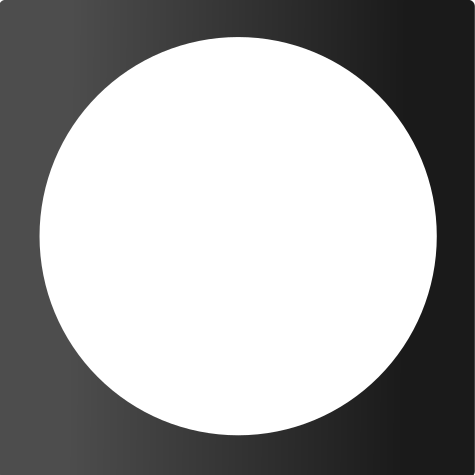
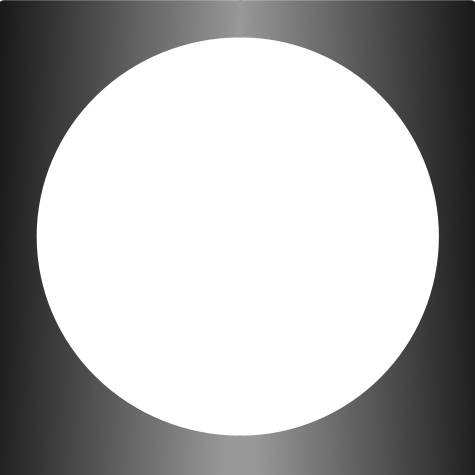
select team colors done

diff --git a/app.js b/app.js
@@ -74,4 +74,172 @@ state = {
   ],
 };
 
-console.log("hiiiiiiiiiiiiiiiiiiiiiii")
+
+const colorsChoiceNodeP1 = document.getElementById("colorsChooseP1");
+const colorsChoiceNodeP2 = document.getElementById("colorsChooseP2");
+
+const colorsPlayer1Heading = document.getElementById("player1ColorLabel");
+const colorsPlayer2Heading = document.getElementById("player2ColorLabel");
+
+function changePlayerHeadline( node, color, colorDescription) {
+  node.innerHTML = "Player " + color;
+  node.style.color = colorDescription
+}
+
+
+console.dir(colorsChoiceNodeP1);
+console.dir(colorsChoiceNodeP2);
+
+function clearStylingsP1( color ) {
+  let child1 = colorsChoiceNodeP1.firstElementChild
+  let child2 = child1.nextElementSibling
+  let child3 = child2.nextElementSibling
+  let child4 = child3.nextElementSibling
+  if ( color === "red") {
+    child1.style.outline = "";
+    child1.style.marginLeft = ".25vw";
+    child1.style.marginRight = ".25vw";
+  } else if ( color === "blue") {
+    child2.style.outline = "";
+    child2.style.marginLeft = ".25vw";
+    child2.style.marginRight = ".25vw";
+  } else if ( color === "green" ) {
+    child3.style.outline = "";
+    child3.style.marginLeft = ".25vw";
+    child3.style.marginRight = ".25vw";
+  } else if ( color === "purple" ) {
+    child4.style.outline = "";
+    child4.style.marginLeft = ".25vw";
+    child4.style.marginRight = ".25vw";
+  } else {
+
+  }
+
+}
+
+function clearStylingsP2( color ) {
+  let child1 = colorsChoiceNodeP2.firstElementChild
+  let child2 = child1.nextElementSibling
+  let child3 = child2.nextElementSibling
+  let child4 = child3.nextElementSibling
+  if ( color === "red") {
+    child1.style.outline = "";
+    child1.style.marginLeft = ".25vw";
+    child1.style.marginRight = ".25vw";
+  } else if ( color === "blue") {
+    child2.style.outline = "";
+    child2.style.marginLeft = ".25vw";
+    child2.style.marginRight = ".25vw";
+  } else if ( color === "green" ) {
+    child3.style.outline = "";
+    child3.style.marginLeft = ".25vw";
+    child3.style.marginRight = ".25vw";
+  } else if ( color === "purple" ) {
+    child4.style.outline = "";
+    child4.style.marginLeft = ".25vw";
+    child4.style.marginRight = ".25vw";
+  } else {
+
+  }
+
+}
+
+
+colorsChoiceNodeP1.addEventListener("click", function(event) {
+    console.log("event.target.className");
+  console.dir(event.target.className);
+ switch ( state.newGame === false) {
+  case event.target.className === "colorCircleBlue":
+    clearStylingsP1(state.players[0].player1);
+    changePlayerHeadline( colorsPlayer1Heading , "Blue" , "blue") 
+    state.players[0].player1 = "blue"
+    console.dir(event.target.style.outline)
+    event.target.style.outline = "3px solid black"
+    event.target.style.marginLeft = "1vw"
+    event.target.style.marginRight = "1vw"
+  break;
+  case event.target.className === "colorCirclePurple":
+    clearStylingsP1(state.players[0].player1);
+    changePlayerHeadline( colorsPlayer1Heading , "Purple" , "purple") 
+    state.players[0].player1 = "purple"
+    event.target.style.outline = "3px solid black"
+    event.target.style.marginLeft = "1vw"
+    event.target.style.marginRight = "1vw"
+  break; 
+    case event.target.className === "colorCircleGreen":
+    clearStylingsP1(state.players[0].player1);
+    changePlayerHeadline( colorsPlayer1Heading , "Green" , "green") 
+    state.players[0].player1 = "green"
+    event.target.style.outline = "3px solid black"
+    event.target.style.marginLeft = "1vw"
+    event.target.style.marginRight = "1vw"
+  break; 
+    case event.target.className === "colorCircleRed":
+    clearStylingsP1(state.players[0].player1);
+    changePlayerHeadline( colorsPlayer1Heading , "Red" , "rgb(234, 10, 10)") 
+    state.players[0].player1 = "red"
+    event.target.style.outline = "3px solid black"
+    event.target.style.marginLeft = "1vw"
+    event.target.style.marginRight = "1vw"
+  break; 
+  default:
+
+ }
+
+})
+
+colorsChoiceNodeP2.addEventListener("click", function(event) {
+    console.log("event.target.className");
+  console.dir(event.target.className);
+ switch ( state.newGame === false) {
+  case event.target.className === "colorCircleBlue":
+    clearStylingsP2(state.players[1].player2);
+    changePlayerHeadline( colorsPlayer2Heading , "Blue" , "blue") 
+    state.players[1].player2 = "blue"
+    console.dir(event.target.style.outline)
+    event.target.style.outline = "3px solid black"
+    event.target.style.marginLeft = "1vw"
+    event.target.style.marginRight = "1vw"
+  break;
+  case event.target.className === "colorCirclePurple":
+    clearStylingsP2(state.players[1].player2);
+      changePlayerHeadline( colorsPlayer2Heading , "Purple" , "purple") 
+    state.players[1].player2 = "purple"
+    event.target.style.outline = "3px solid black"
+    event.target.style.marginLeft = "1vw"
+    event.target.style.marginRight = "1vw"
+  break; 
+    case event.target.className === "colorCircleGreen":
+    clearStylingsP2(state.players[1].player2);
+    changePlayerHeadline( colorsPlayer2Heading , "Green" , "green") 
+    state.players[1].player2 = "green"
+    event.target.style.outline = "3px solid black"
+    event.target.style.marginLeft = "1vw"
+    event.target.style.marginRight = "1vw"
+  break; 
+    case event.target.className === "colorCircleRed":
+    clearStylingsP2(state.players[1].player2);
+    changePlayerHeadline( colorsPlayer2Heading , "Red" , "rgb(234, 10, 10)") 
+    state.players[1].player2 = "red"
+    event.target.style.outline = "3px solid black"
+    event.target.style.marginLeft = "1vw"
+    event.target.style.marginRight = "1vw"
+  break; 
+  default:
+
+ }
+
+})
+
+const nodeStartGame = document.getElementsByClassName("startGame");
+
+nodeStartGame.addEventListener("click", function() {
+  window.alert("click")
+  if ( state.newGame === false && state.players[0].player1 !== null && state.players[1].player2 !== null && state.players[0].player1 !== state.players[1].player2) {
+    window.alert("you started a game");
+  } else {
+
+  }
+})
+
+// clearStylingsP1()

diff --git a/style.css b/style.css
@@ -1,8 +1,3 @@
-head {
-  height: 1200px;
-  width: 100%;
-  background-color: green;
-}
 
 table {
   background-color: lightgray;
@@ -14,12 +9,12 @@ table {
 tr {
   background-color: lightgray;
   width: 100%;
-  outline: 2px solid black;
+  outline: 2px solid rgb(34, 33, 33);
 }
 
 td {
-  outline: 4px solid black;
-  background-color: red;
+  outline: 4px solid rgb(34, 33, 33);
+  background-color: whitesmoke;
   width: 14%;
   height: 10vw;
   margin: 0;
@@ -47,25 +42,90 @@ div.userControls {
   flex-direction: row;
   justify-content: space-between; */
   height: 25vw;
-  background-image: linear-gradient(to right, rgb(255, 255, 255), rgb(196, 195, 195));
-  outline: 3px solid black;
-  width: 80%;
-  margin-bottom: 2px;
+  background-image: linear-gradient(to right, rgb(196, 195, 195), rgb(255, 255, 255), rgb(196, 195, 195));
+  outline: 1vw solid rgb(41, 38, 38);
+  width: 77%;
+  padding:0;
 }
 
-div.header {
+div.banner {
   display: flex;
   flex-direction: row;
   justify-content: space-between;
+  background-image: linear-gradient(to right, rgb(41, 38, 38), rgb(95, 84, 84));
+  /* align-items: space-between; */
   height: 10vw;
+  width:80%;
+}
+
+.player1Name {
+  font-family:'Gill Sans', 'Gill Sans MT', Calibri, 'Trebuchet MS', sans-serif;
+  font-size: 4vw;
+  font-weight: bold;
+  text-align:center;
+  margin:2.5vw;
+}
+
+.player2Name {
+  font-family:'Gill Sans', 'Gill Sans MT', Calibri, 'Trebuchet MS', sans-serif;
+  font-size: 4vw;
+  font-weight: bold;
+  text-align:center;
+  margin:2.5vw;
+}
+
+.bannerGameTitle {
+  color:white;
+}
+
+.colorButtons {
+  width:80%;
+  height:auto;
+  /* display:block; */
+  margin-left:auto;
+  margin-right:auto;
+  /* background-color: black; */
 }
 
 .colorCircleRed {
   width:5vw;
   height:5vw;
+  margin-left:.25vw;
+  margin-right:.25vw;
   display:inline-block;
   border-radius: 50%;
-  background-image: linear-gradient(to right, red, darkred);
+  background-image: linear-gradient(to right, rgb(248, 142, 142), rgb(234, 10, 10));
+}
+
+.colorCirclePurple {
+  width:5vw;
+  height:5vw;
+  margin-left:.25vw;
+  margin-right:.25vw;
+  display:inline-block;
+  border-radius: 50%;
+  background-image: linear-gradient(to right, rgb(208, 58, 208), purple);
+}
+
+.colorCircleBlue {
+  width:5vw;
+  height:5vw;
+  margin-left:.25vw;
+  margin-right:.25vw;
+  display:inline-block;
+  border-radius: 50%;
+  background-image: linear-gradient(to right, rgb(112, 112, 250), blue);
+  /* outline: 3px solid black; */
+}
+
+.colorCircleGreen {
+  width:5vw;
+  height:5vw;
+  margin-left:.25vw;
+  margin-right:.25vw;
+  display:inline-block;
+  border-radius: 50%;
+  background-image: linear-gradient(to right, rgb(39, 231, 39),green );
 }
 
 div.controls {
@@ -91,6 +151,10 @@ img {
   height:20vw;
   /* background-color: aqua; */
   display:inline-block;
+}
+
+.startGame {
+  background-color: gold;
 }
 
 

diff --git a/index.html b/index.html
@@ -21,32 +21,44 @@
     </section> -->
       <section class="gameBoard">
         <!-- <div class="userControls"> -->
-          <div class="header">
-            <p>Connect Four</p>
-            <button>Start Game</button>
+          <div class="banner">
+            <p class="bannerGameTitle">Connect Four</p>
+            <button class="startGame">Start Game</button>
           </div>
           <div class="userControls">
             <div class="playerSections">
-            <p>Player 1</p>
-              <div class="colorCircleRed"></div>
-            <select>
+            <p id="player1ColorLabel" class="player1Name">Player 1</p>
+              <div id="colorsChooseP1" class="colorButtons" >
+                <div class="colorCircleRed"></div>
+                <div class="colorCircleBlue"></div>
+                <div class="colorCircleGreen"></div>
+                <div class="colorCirclePurple"></div>
+            </div>
+            <!-- <select>
               <option value="red">Red</option>
               <option value="blue">Blue</option>
               <option value="violet">Violet</option>
               <option value="violet">Green</option>
-            </select>
+            </select> -->
             </div>
           
             <!-- </div> -->
             <div class="playerSections">           
-            <p>Player 2</p>
-            <div class="colorCircleRed"></div>
-            <select>
+            <p id="player2ColorLabel" class="player2Name">Player 2</p>
+            <div id="colorsChooseP2" class="colorButtons">
+                <div class="colorCircleRed"></div>
+                <div class="colorCircleBlue"></div>
+                <div class="colorCircleGreen"></div>
+                <div class="colorCirclePurple"></div>
+            </div>
+         
+
+            <!-- <select>
               <option value="red">Red</option>
               <option value="blue">Blue</option>
-              <option value="violet">Violet</option>
-              <option value="violet">Green</option>
-            </select>
+              <option value="purple">Purple</option>
+              <option value="green">Green</option>
+            </select> -->
 
 
 </div>
@@ -232,4 +244,6 @@
       </section>
     </main>
   </body>
+      <script refer src="/app.js"></script>
+
 </html>
